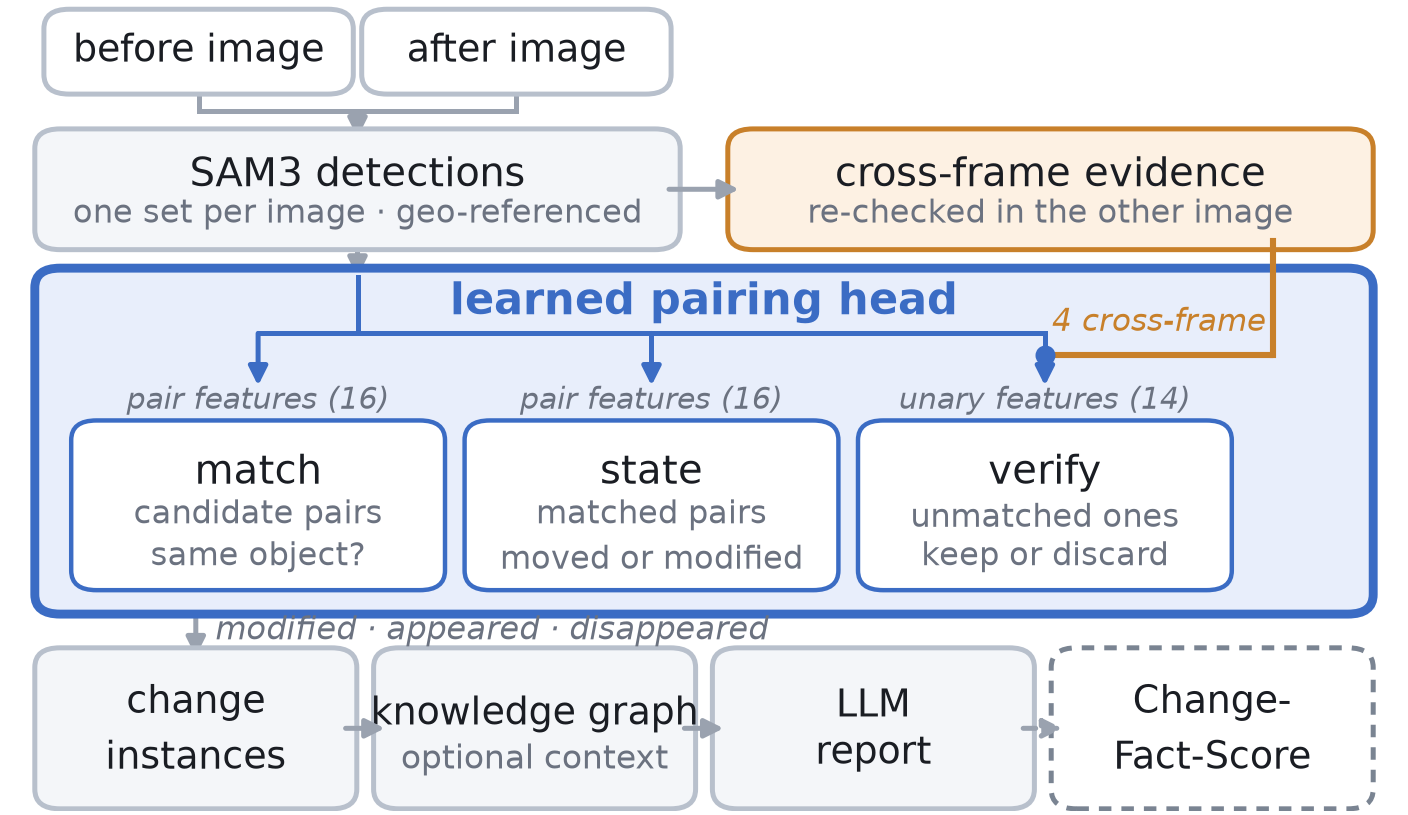
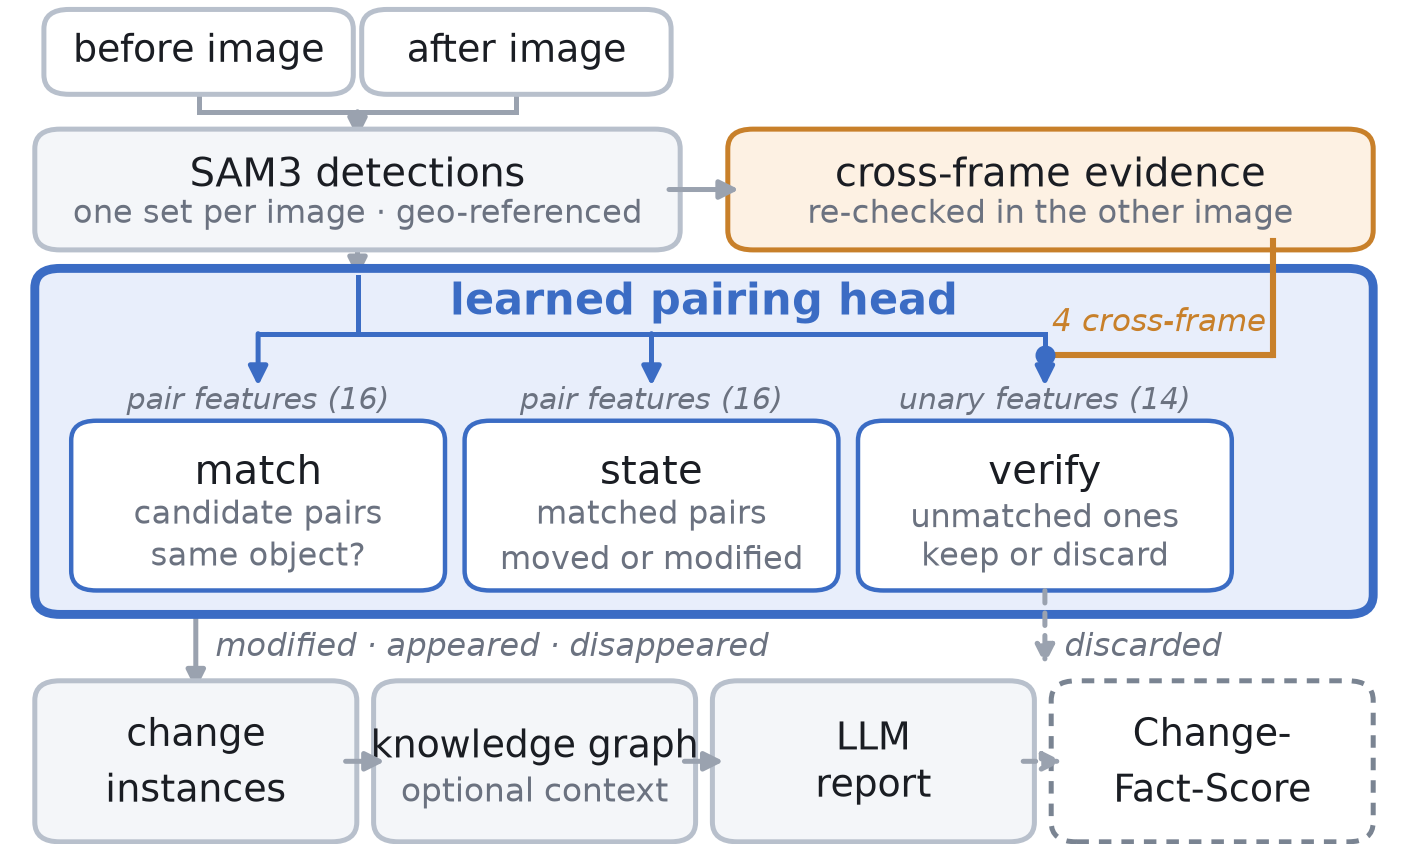
Draw the suppression path, the one outcome the figure was hiding
pair() emits five statuses, and change_instances() forwards three of
them. The two it does not forward were both misrepresented.

A detection the verifier scores below threshold is never emitted as an
outcome at all -- pair() only increments n_suppressed -- so it left the
figure through no edge whatsoever. Drawn that way the head appeared to
pass every detection through, which is exactly the failure cross-frame
evidence exists to prevent and the source of the 77.97 -> 83.83 gain. It
now leaves verify's own border on a dashed edge that stops in open
space.

Matched and moved pairs are not discarded either: they are excluded from
change_instances() because they are not changes, but their count reaches
the generator as ev.stable, printed in the prompt as an unchanged total
(prompts.py). The caption says so rather than leaving them unaccounted.

The caption drops the note about subsets being stated in boxes -- the
one-row layout writes "candidate pairs", "matched pairs" and "unmatched
ones" in the boxes themselves -- and the state sentence, now carried by
the body prose. Six pages.

Claude-Session: https://claude.ai/code/session_01Uzd5z5zjzi4ZxCrgX4PyRf

diff --git a/scripts/gen_paper_figure.py b/scripts/gen_paper_figure.py
@@ -55,7 +55,7 @@ EDGE_EVID = "#c8802a"
 FILL_EVAL = "#ffffff"
 EDGE_EVAL = "#7a8492"
 
-FIG_W, FIG_H = 3.5, 2.018
+FIG_W, FIG_H = 3.5, 2.100
 
 
 
@@ -97,7 +97,7 @@ def build() -> None:
     ax.set_xlim(0, 1)
     # The drawing occupies 0.22 upwards; cropping to it removes a band of empty
     # canvas that bbox_inches alone does not reclaim from an invisible axes.
-    ax.set_ylim(0.233, 0.975)
+    ax.set_ylim(0.203, 0.975)
     ax.axis("off")
 
     L, R = 0.03, 0.97
@@ -232,7 +232,7 @@ def build() -> None:
     arrow(ax, x_det_c, y_f, x_det_c, hy + hh)
 
     # ---- tail -------------------------------------------------------------
-    ty, th = 0.243, 0.132
+    ty, th = 0.213, 0.132
     n, gap = 4, 0.028
     bw = (W - gap * (n - 1)) / n
     # (label, sub): the label may wrap, and only `sub` is set in muted type, so
@@ -260,12 +260,26 @@ def build() -> None:
             arrow(ax, x - gap, ty + th / 2, x, ty + th / 2,
                   ls=(0, (2.5, 2)) if i == n - 1 else "-", zorder=5)
 
+    # Two ways out of the head, and the second one is the paper's result. A
+    # detection the verifier scores below threshold is never emitted as an
+    # outcome at all -- pair() only counts it, as n_suppressed -- so the
+    # suppression path is a dashed edge that stops in open space. Drawn as a
+    # single outgoing arrow, the figure implied every detection survives,
+    # which is precisely the failure cross-frame evidence exists to prevent.
+    y_out = ((ty + th + 0.008) + (hy - 0.008)) / 2
     arrow(ax, L + bw / 2, hy, L + bw / 2, ty + th)
     # Centred on the clear band between the two rounded borders, not on the
     # raw gap: the boxstyle pad puts the drawn edges 0.008 outside the given
     # coordinates, and centring on the gap ran the text over both of them.
-    ax.text(L + bw / 2 + 0.014, ((ty + th + 0.008) + (hy - 0.008)) / 2,
+    ax.text(L + bw / 2 + 0.014, y_out,
             "modified · appeared · disappeared", ha="left", va="center",
+            fontsize=5.8, color=MUTED, style="italic")
+    # From verify's own border, not the panel's: the discard is that one
+    # branch's decision. It needs zorder above the panel, or the segment
+    # inside the head is painted over by the fill.
+    arrow(ax, ctr[2], by - 0.008, ctr[2], ty + th + 0.023,
+          ls=(0, (2.5, 2)), zorder=5)
+    ax.text(ctr[2] + 0.014, y_out, "discarded", ha="left", va="center",
             fontsize=5.8, color=MUTED, style="italic")
 
     fig.subplots_adjust(left=0, right=1, top=1, bottom=0)

diff --git a/paper/sections/method.tex b/paper/sections/method.tex
@@ -6,11 +6,11 @@
 \caption{Pipeline. All three branches read the detections, but not the same
 vector: match and state share one 16-dimensional pair feature, while verify
 reads a 14-dimensional unary feature whose last four entries are the
-cross-frame evidence measured on each detected footprint in both images. Which
-subset a branch applies to is stated in its box rather than drawn, being
-selection rather than data flow. Only stationary/moved is unverifiable under
-binary labels; the state branch's modified output is scored like any other
-change instance. The graph feeds one grounding condition, not all.}
+cross-frame evidence measured on each detected footprint in both images. The
+dashed edge is suppression: a detection scored below the verify threshold is
+never emitted at all, and that is where the cross-frame gain appears. Matched
+and moved pairs are not changes and reach the prompt only as an unchanged
+count. The graph feeds one grounding condition, not all.}
 \label{fig:architecture}
 \end{figure}
 
